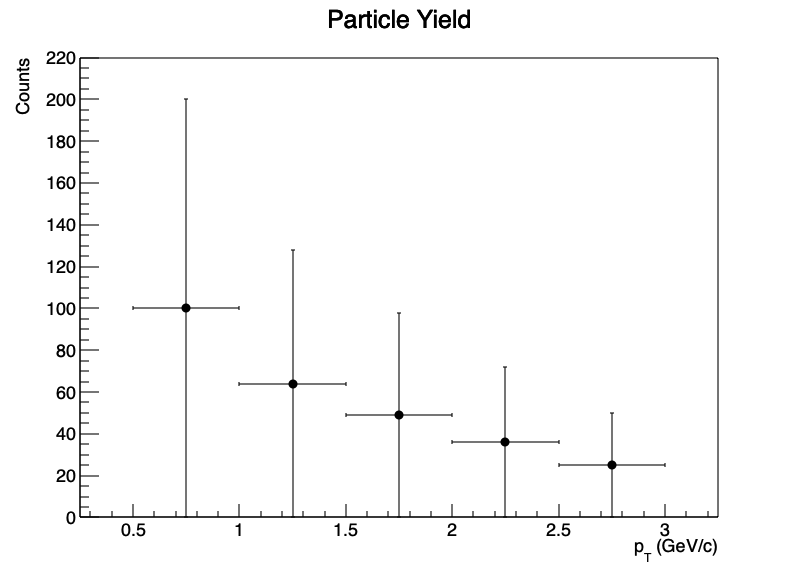
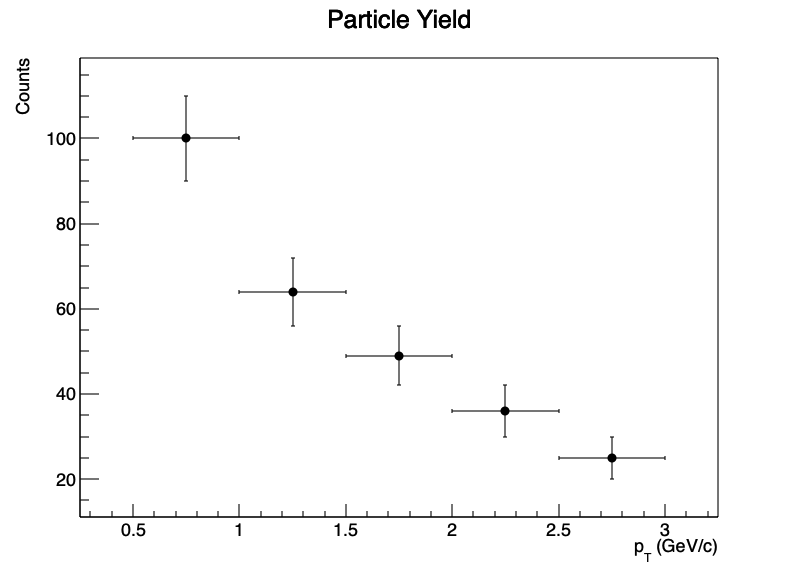
Update lesson18 histogram to TGraphErrors

diff --git a/lessons/lesson18_hist_to_graph.C b/lessons/lesson18_hist_to_graph.C
@@ -1,24 +1,37 @@
-#include<TH1F.h>
-#include<TCanvas.h>
-#include<TGraphErrors.h>
-#include<iostream>
-#include<cmath>
+#include <iostream>
+
+#include "TH1F.h"
+#include "TCanvas.h"
+#include "TGraphErrors.h"
 
 using namespace std;
 
 void lesson18_hist_to_graph()
 {
-    // 创建一个直方图
-    TH1F *h = new TH1F("h", "Particle Yield;p_{T} (GeV/c);Counts", 10, 0, 5);
+    // 1. Create histogram
+    TH1F *h = new TH1F(
+        "h",
+        "Particle Yield;p_{T} (GeV/c);Counts",
+        10,
+        0,
+        5
+    );
 
-    // 填充直方图数据
-    h->Fill(0.5, 100);
-    h->Fill(1.0, 64);
-    h->Fill(1.5, 49);
-    h->Fill(2.0, 36);
-    h->Fill(2.5, 25);
+    // 2. Set bin contents
+    h->SetBinContent(2, 100);
+    h->SetBinContent(3, 64);
+    h->SetBinContent(4, 49);
+    h->SetBinContent(5, 36);
+    h->SetBinContent(6, 25);
 
-    // 3. Create arrays for TGraphErrors
+    // 3. Set statistical errors
+    h->SetBinError(2, 10);
+    h->SetBinError(3, 8);
+    h->SetBinError(4, 7);
+    h->SetBinError(5, 6);
+    h->SetBinError(6, 5);
+
+    // 4. Number of data points
     const int n = 5;
 
     double x[n];
@@ -26,10 +39,10 @@ void lesson18_hist_to_graph()
     double ex[n];
     double ey[n];
 
-    // 4. Read data from histogram
+    // 5. Read data from histogram
     for (int i = 0; i < n; i++)
     {
-        int bin = h->FindBin(0.5 + i * 0.5);
+        int bin = i + 2;
 
         x[i] = h->GetBinCenter(bin);
         y[i] = h->GetBinContent(bin);
@@ -38,22 +51,38 @@ void lesson18_hist_to_graph()
         ey[i] = h->GetBinError(bin);
     }
 
-    // 5. Print values
+    // 6. Print values
     for (int i = 0; i < n; i++)
     {
-        cout << "Point " << i + 1 << ": x = " << x[i] << ", y = " << y[i] << " +/- " << ey[i] << endl;
+        cout << "Point " << i + 1
+             << ": x = " << x[i]
+             << ", y = " << y[i]
+             << " +/- " << ey[i]
+             << endl;
     }
 
-    // 6. Create TGraphErrors
-    TGraphErrors *graph = new TGraphErrors(n, x, y, ex, ey);
+    // 7. Create TGraphErrors
+    TGraphErrors *graph =
+        new TGraphErrors(n, x, y, ex, ey);
 
-    graph->SetTitle("Particle Yield;p_{T} (GeV/c);Counts");
+    graph->SetTitle(
+        "Particle Yield;p_{T} (GeV/c);Counts"
+    );
+
     graph->SetMarkerStyle(20);
 
-    // 7. Draw
-    TCanvas *c18 = new TCanvas("c18", "Histogram to TGraphErrors", 800, 600);
+    // 8. Draw
+    TCanvas *c = new TCanvas(
+        "c18",
+        "Histogram to TGraphErrors",
+        800,
+        600
+    );
+
     graph->Draw("AP");
 
-    // 8. Save
-    c18->SaveAs("plots/lesson18_hist_to_graph.png");
+    // 9. Save
+    c->SaveAs(
+        "plots/lesson18_hist_to_graph.png"
+    );
 }
